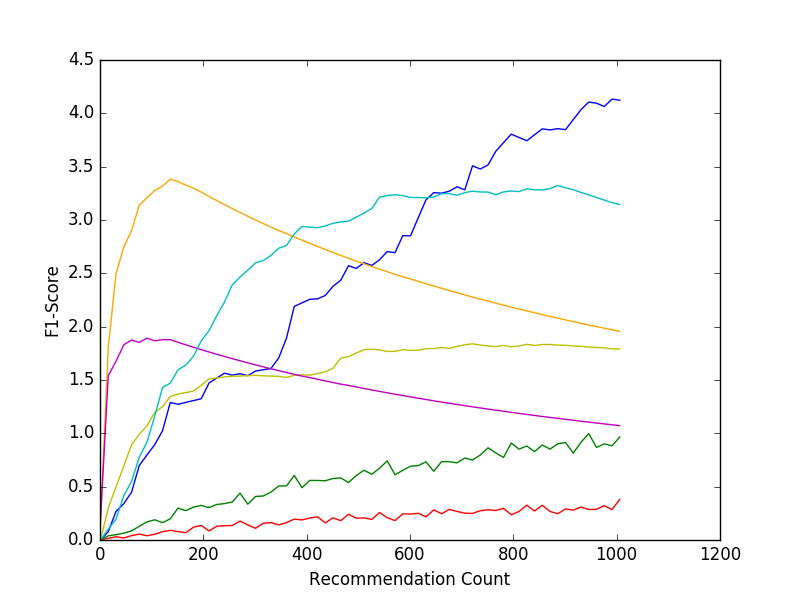
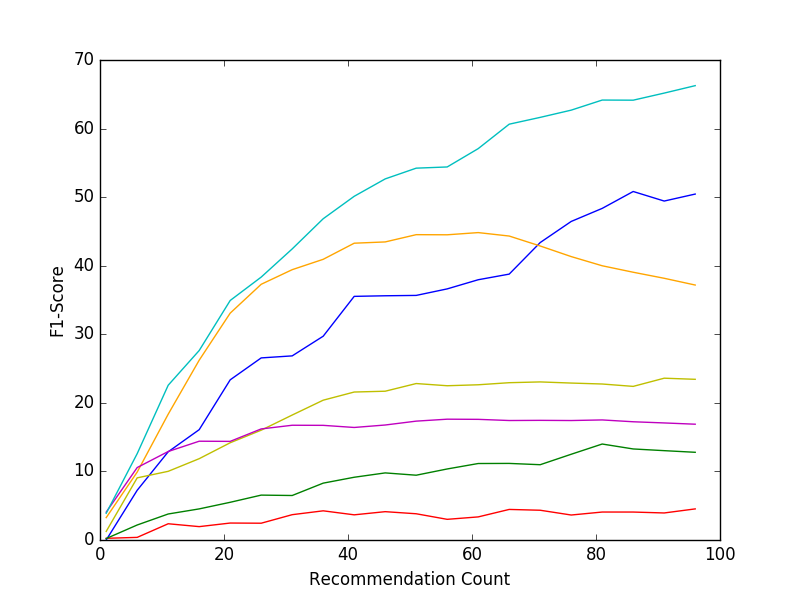
final graphs

diff --git a/evaluation.py b/evaluation.py
@@ -8,7 +8,7 @@ import matplotlib.patches as mpatches
 FOLDS = 10
 
 def evaluate_cold_start(method, UAM, plot, color):
-    RECOMMENDATIONS = 30
+    RECOMMENDATIONS = 100
 
     users_sums = np.sum(UAM, axis=1)
     sorted_indizes = np.argsort(users_sums)[::-1]
@@ -67,7 +67,7 @@ def evaluate_cold_start(method, UAM, plot, color):
     plt.scatter
 
 def evaluate(method, UAM, precion_recall_plot, f1_plot, color):
-    MAX_RECOMMENDATIONS = 30
+    MAX_RECOMMENDATIONS = 100
     MAX_USERS = 5
 
     sample_users = random.sample(range(0, UAM.shape[0]), MAX_USERS)
@@ -77,7 +77,7 @@ def evaluate(method, UAM, precion_recall_plot, f1_plot, color):
     f_measures = []
     counts = []
 
-    for recommendations_count in range(1, MAX_RECOMMENDATIONS, 2):
+    for recommendations_count in range(1, MAX_RECOMMENDATIONS, 5):
         avg_precision = 0
         avg_recall = 0
 
